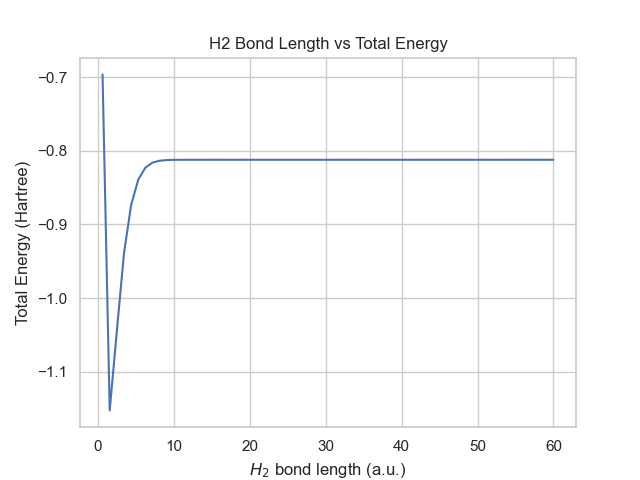
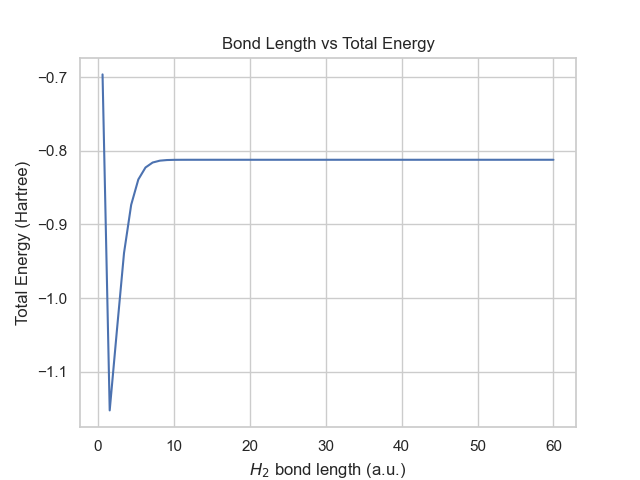
Added functionality

Changed region(s): [[0.3125, 0.0625, 0.6875, 0.125]]

diff --git a/optim.py b/optim.py
@@ -1,20 +1,92 @@
 import jax
 import optax
+import numpy as np
 import seaborn as sns
 import jax.numpy as jnp
 import matplotlib.pyplot as plt
 
 from tqdm import tqdm
-from mess import Hamiltonian, basisset, molecule
-from mess.interop import from_pyquante
+from mess import Hamiltonian, basisset
+from pyquante2 import molecule
+from mess.structure import Structure
 from mess.structure import nuclear_energy
+
+
+MOLECULE_MAP = {
+    "Ground": {
+        'CH': molecule(
+            [
+                (6, 0.0, 0.0, 0.0), 
+                (1, 0.0, 0.0, 1.1)
+            ],
+            units='Angstrom',
+            # multiplicity=2,
+            name='Methane'
+        ),
+        'O2': molecule(
+            [
+                (8, 0.0, 0.0, -0.6), 
+                (8, 0.0, 0.0, 0.6)
+            ],
+            units='Angstrom',
+            # multiplicity=3,
+            name='Oxygen'
+        ),
+        'BeH': molecule(
+            [
+                (4, 0.0, 0.0, 0.0), 
+                (1, 0.0, 0.0, 1.3)
+            ],
+            units='Angstrom',
+            # multiplicity=2,
+            name='Beryllium Hydride'
+        )
+    },
+    "Excited": {
+        'CH': molecule(
+            [
+                (6, 0.0, 0.0, 0.0),
+                (1, 0.0, 0.0, 1.1)
+            ],
+            units='Angstrom',
+            # multiplicity=1,  # Singlet state for CH+
+            charge=1,
+            name='Methane (Cationic Excited)'
+        ),
+        'O2': molecule(
+            [
+                (8, 0.0, 0.0, -0.6),
+                (8, 0.0, 0.0, 0.6)
+            ],
+            units='Angstrom',
+            # multiplicity=2,  # Doublet state for O2+
+            charge=1,
+            name='Oxygen (Cationic Excited)'
+        ),
+        'BeH': molecule(
+            [
+                (4, 0.0, 0.0, 0.0),
+                (1, 0.0, 0.0, 1.3)
+            ],
+            units='Angstrom',
+            # multiplicity=1,  # Singlet state for BeH+
+            charge=1,
+            name='Beryllium Hydride (Cationic Excited)'
+        )
+    }
+}
+
+def get_molecule(name, state):
+    mol = MOLECULE_MAP[state][name]
+    atomic_number, position = zip(*[(a.Z, a.r) for a in mol])
+    atomic_number, position = [np.asarray(x) for x in (atomic_number, position)]
+    return Structure(atomic_number, position)
 
 
 def optimize_energy(mol, basis_name, method='pbe', num_iterations=200, learning_rate=0.1):
     basis = basisset(mol, basis_name)
     H = Hamiltonian(basis, xc_method=method)
     optimiser = optax.adam(learning_rate=learning_rate)
-
     E_n = nuclear_energy(mol)
 
     @jax.jit
@@ -24,39 +96,39 @@ def optimize_energy(mol, basis_name, method='pbe', num_iterations=200, learning_
         P = H.basis.density_matrix(C)
         return H(P)
 
-    Z = jnp.eye(basis.num_orbitals)
+    n = basis.num_orbitals
+    Z = jnp.eye(n)
     state = optimiser.init(Z)
     history = []
 
     for _ in tqdm(range(num_iterations), desc="Optimizing Energy"):
         e, grads = total_energy(Z)
-        e+= E_n
+        e += E_n
         updates, state = optimiser.update(grads, state)
         Z = optax.apply_updates(Z, updates)
         history.append(e)
 
-
-    hessian_fn = jax.hessian(total_energy)
-    hessian = hessian_fn(Z)
-    print(hessian)
-
+    hessian = jax.jacrev(total_energy)(Z)[1]
+    hessian_matrix = hessian.reshape((n * n, n * n))
+    eigenvalues = jnp.linalg.eigvals(hessian_matrix)
+    print(f"Hessian Eigenvalue: {eigenvalues}")
     return jnp.stack(history)
 
 
 def main():
     sns.set_theme(style="whitegrid")
-
-    mol = from_pyquante("ch4")
-    # mol = molecule("water")
+    mol_name = "O2"
+    energy_state = "Ground"
     basis_name = "6-31g"
 
+    mol = get_molecule(mol_name, energy_state)
     history = optimize_energy(mol, basis_name)
 
     plt.figure()
     ax = sns.lineplot(data=history)
     ax.set_xlabel("Iteration")
     ax.set_ylabel("Total energy (Hartree)")
-    plt.title("Energy Optimization of CH4")
+    plt.title("Energy Optimization of CH")
     plt.savefig('plots/energy.png')
     plt.close()
 

diff --git a/batching.py b/batching.py
@@ -10,14 +10,6 @@ from mess import Hamiltonian, basisset
 from mess.structure import Structure, nuclear_energy
 
 
-def h2_hamiltonian(r: float, basis_name: str = "sto-3g", xc_method="lda"):
-    mol = Structure(
-        atomic_number=np.array([1, 1]),
-        position=np.array([[0.0, 0.0, 0.0], [r, 0.0, 0.0]]),
-    )
-    basis = basisset(mol, basis_name=basis_name)
-    return Hamiltonian(basis, xc_method=xc_method)
-
 @jax.jit
 @jax.vmap
 def energy(Z, H):
@@ -30,12 +22,13 @@ def loss_fn(z, h):
     return jnp.sum(energy(z, h))
 
 
-def optimize_h2(rs, num_iterations=128, learning_rate=0.1):
-    num_confs = len(rs)
-    H = [h2_hamiltonian(r) for r in rs]
-    num_orbitals = H[0].basis.num_orbitals
-    H = jax.tree.map(lambda *xs: jnp.stack(xs), *H)
+def optimize(Hs, num_iterations=128, learning_rate=0.1):
+    num_confs = len(Hs)
+    num_orbitals = Hs[0].basis.num_orbitals
+
+    H = jax.tree.map(lambda *xs: jnp.stack(xs), *Hs)
     Z = jnp.tile(jnp.eye(num_orbitals), (num_confs, 1, 1))
+
     optimiser = optax.adam(learning_rate=learning_rate)
     state = optimiser.init(Z)
 
@@ -50,7 +43,7 @@ def optimize_h2(rs, num_iterations=128, learning_rate=0.1):
     E_n = jax.vmap(nuclear_energy)(H.basis.structure)
     E_total = energy(Z, H) + E_n
 
-    return history, rs, E_total
+    return history, E_total
 
 
 def plot_results(history, rs, E_total):
@@ -68,15 +61,24 @@ def plot_results(history, rs, E_total):
     ax = sns.lineplot(x=rs, y=E_total)
     ax.set_xlabel("$H_2$ bond length (a.u.)")
     ax.set_ylabel("Total Energy (Hartree)")
-    plt.title("H2 Bond Length vs Total Energy")
+    plt.title("Bond Length vs Total Energy")
     plt.savefig('plots/distance.png')
     plt.close()
 
-
 def main():
+    basis_name: str = "sto-3g"
+    xc_method: str ="lda"
     num_confs = 64
     rs = np.linspace(0.6, 60, num_confs)
-    history, rs, E_total = optimize_h2(rs)
+
+    mols = [Structure(
+        atomic_number=np.array([1, 1]),
+        position=np.array([[0.0, 0.0, 0.0], [r, 0.0, 0.0]]),
+    ) for r in rs]
+    bases = [basisset(mol, basis_name=basis_name) for mol in mols]
+    Hamiltonians = [Hamiltonian(basis, xc_method=xc_method) for basis in bases]
+
+    history, E_total = optimize(Hamiltonians)
     plot_results(history, rs, E_total)
 
 
